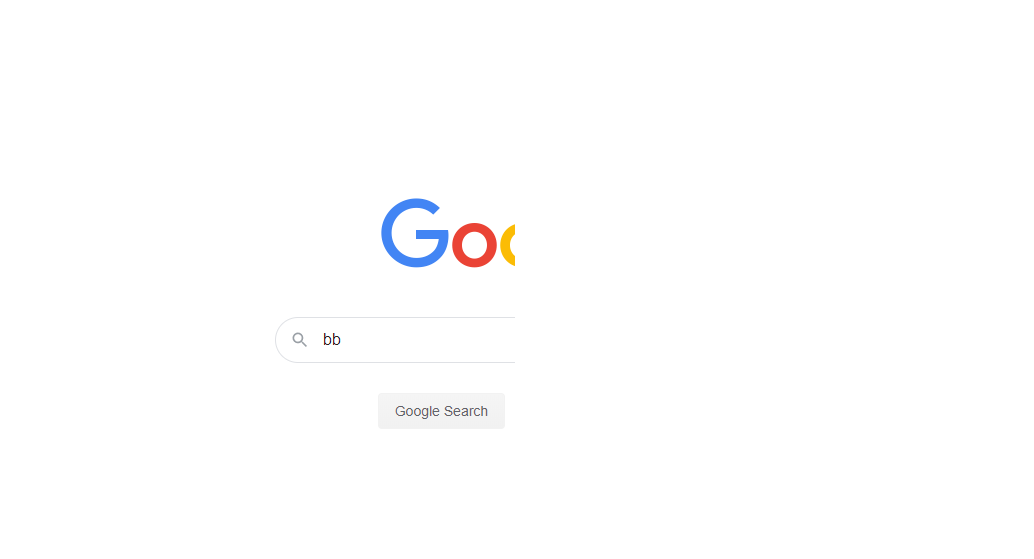
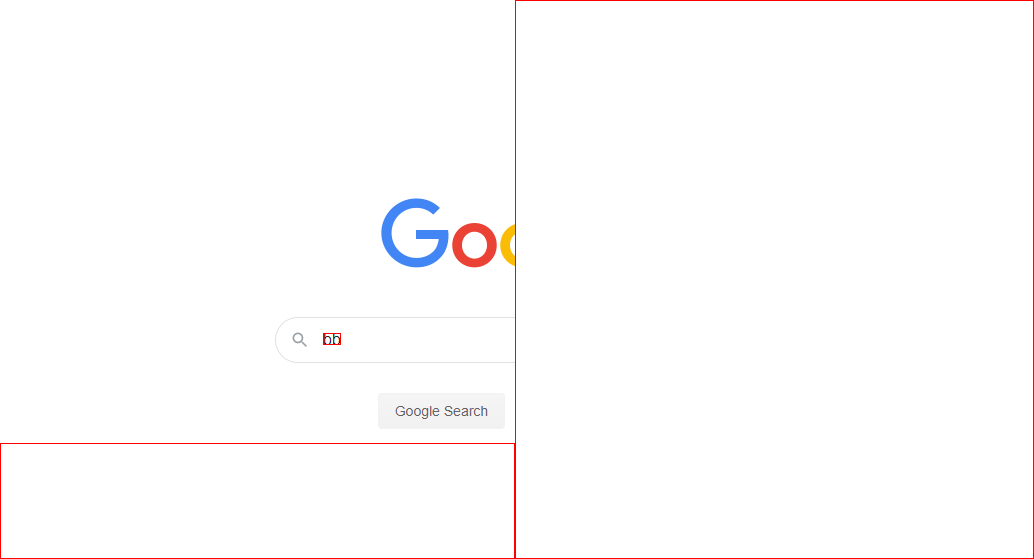
Continue Diff Image
Continue Diff Image

Changed region(s): [[0.9903, 0.9732, 1.0, 1.0], [0.9903, 0.0, 1.0, 0.0304], [0.4952, 0.9732, 0.5261, 1.0]]

diff --git a/Practice/JAVA/Image/DiffImage/src/com/blogspot/benbai123/image/diff/ImageDiff.java b/Practice/JAVA/Image/DiffImage/src/com/blogspot/benbai123/image/diff/ImageDiff.java
@@ -5,25 +5,30 @@ import java.awt.Graphics2D;
 import java.awt.Point;
 import java.awt.Rectangle;
 import java.awt.image.BufferedImage;
-import java.awt.image.ColorModel;
-import java.awt.image.WritableRaster;
 import java.io.File;
-import java.io.IOException;
-import java.util.Arrays;
+import java.util.ArrayList;
+import java.util.Comparator;
 import java.util.List;
+import java.util.NoSuchElementException;
+import java.util.Optional;
 import java.util.stream.Collectors;
 import java.util.stream.IntStream;
-import java.util.stream.Stream;
-
 import javax.imageio.ImageIO;
 
 import com.blogspot.benbai123.image.Pixel;
 
 /**
+ * Diff 2 images and highlight differences by rectangle
+ * 
+ * TODO move implementation to impl class
+ * 
  * References
  * 
  * How do you clone a BufferedImage
  * https://stackoverflow.com/questions/3514158/how-do-you-clone-a-bufferedimage
+ * 
+ * calculating distance between a point and a rectangular box
+ * https://stackoverflow.com/questions/5254838/calculating-distance-between-a-point-and-a-rectangular-box-nearest-point
  * 
  * Filling a Multidimensional Array using a Stream
  * https://stackoverflow.com/questions/26050530/filling-a-multidimensional-array-using-a-stream/26979389
@@ -32,6 +37,8 @@ import com.blogspot.benbai123.image.Pixel;
  *
  */
 public class ImageDiff {
+	/** distance limitation of join points to area */
+	private static int _maxDistance = 60;
 	public static BufferedImage diffExpectedWithActual(BufferedImage expected, BufferedImage actual) throws Exception {
 		BufferedImage resultImage = getInitialResult(expected, actual);
 		List<Rectangle> differentAreas = findDifferentAreas(expected, actual);
@@ -60,14 +67,12 @@ public class ImageDiff {
 	}
 
 	private static List<Rectangle> findDifferentAreas(BufferedImage expected, BufferedImage actual) {
-		// TODO Auto-generated method stub
 		List<Point> differentPoints = findDifferentPoints(expected, actual);
 		List<Rectangle> differentAreas = buildDifferentAreas(differentPoints);
-		return null;
+		return differentAreas;
 	}
 
 	private static List<Point> findDifferentPoints(BufferedImage expected, BufferedImage actual) {
-		// TODO Auto-generated method stub
 		int width = Math.max(expected.getWidth(), actual.getWidth());
 		int height = Math.max(expected.getHeight(), actual.getHeight());
 		Pixel[][] expectedPixels = Pixel.loadPixels(expected);
@@ -87,16 +92,61 @@ public class ImageDiff {
 		return allDifferentPoints;
 	}
 
-	private static List<Rectangle> buildDifferentAreas(List<Point> differentPoints) {
-		// TODO Auto-generated method stub
-		return null;
-	}
-
 	private static boolean isDifferent(int x, int y, Pixel[][] expectedPixels, Pixel[][] actualPixels) {
 		if (x >= expectedPixels.length || x >= actualPixels.length) return true;
 		if (y >= expectedPixels[0].length || y >= actualPixels[0].length) return true;
 		if (!expectedPixels[x][y].equals(actualPixels[x][y])) return true;
 		return false;
+	}
+
+	private static List<Rectangle> buildDifferentAreas(List<Point> differentPoints) {
+		final List<Rectangle> differentAreas = new ArrayList<Rectangle>();
+
+		differentPoints.stream().forEach((p) -> {
+			Optional<Rectangle> closestArea = findClosestAreaOfPoint(p, differentAreas);
+			if (!closestArea.isPresent()) {
+				Rectangle rect = new Rectangle(p.x, p.y, 1, 1);
+				differentAreas.add(rect);
+			} else {
+				involvePointToArea(p, closestArea.get());
+			}
+		});
+		return differentAreas;
+	}
+
+	private static Optional<Rectangle> findClosestAreaOfPoint(Point p, List<Rectangle> differentAreas) {
+		return differentAreas.parallelStream().min(Comparator.comparing((rect) -> {
+			return getDistanceFromPointToRect(p, rect);
+		})).filter((rect) -> {
+			return isNotTooFar(p, rect);
+		});
+	}
+
+	private static boolean isNotTooFar(Point p, Rectangle rect) {
+		return getDistanceFromPointToRect(p, rect) <= _maxDistance;
+	}
+
+	private static double getDistanceFromPointToRect(Point p, Rectangle rect) {
+		int minX = new Double(rect.getMinX()).intValue();
+		int minY = new Double(rect.getMinY()).intValue();
+		int maxX = new Double(rect.getMaxX()).intValue();
+		int maxY = new Double(rect.getMaxY()).intValue();
+		int px = p.x;
+		int py = p.y;
+		int dx = IntStream.of(minX-px, 0, px-maxX)
+				.max().orElseThrow(NoSuchElementException::new);
+		int dy = IntStream.of(minY-py, 0, py-maxY)
+				.max().orElseThrow(NoSuchElementException::new);
+		return Math.sqrt(dx*dx+dy*dy);
+	}
+
+	private static void involvePointToArea(Point p, Rectangle rect) {
+		int minX = Math.min(p.x, new Double(rect.getMinX()).intValue());
+		int minY = Math.min(p.y, new Double(rect.getMinY()).intValue());
+		int maxX = Math.max(p.x, new Double(rect.getMaxX()).intValue());
+		int maxY = Math.max(p.y, new Double(rect.getMaxY()).intValue());
+		rect.setLocation(minX, minY);
+		rect.setSize(maxX-minX, maxY-minY);
 	}
 
 	private static void markDifferentAreas(BufferedImage image, List<Rectangle> rects) {
@@ -111,19 +161,10 @@ public class ImageDiff {
 	public static void main(String[] args) throws Exception {
 		BufferedImage expected = ImageIO.read(new File("aa.png"));
 		BufferedImage actual = ImageIO.read(new File("cc.png"));
-		List<Point> differentPoints = findDifferentPoints(expected, actual);
-		for (int i = 0; i < 100; i++) {
-			List<Point> differentPoints2 = findDifferentPoints(expected, actual);
-			for (int j = 0; j < differentPoints.size(); j++) {
-				if (differentPoints.get(j).getX() != differentPoints2.get(j).getX()
-						|| differentPoints.get(j).getY() != differentPoints2.get(j).getY()) {
-					System.out.println("different");
-					break;
-				}
-			}
-		}
-		System.out.println("equal "+differentPoints.size());
-		BufferedImage result = getInitialResult(expected, actual);
+
+		BufferedImage result = diffExpectedWithActual(expected, actual);
 		ImageIO.write(result, "png", new File("output_image.png"));
+		
+		System.out.println("done");
 	}
 }
